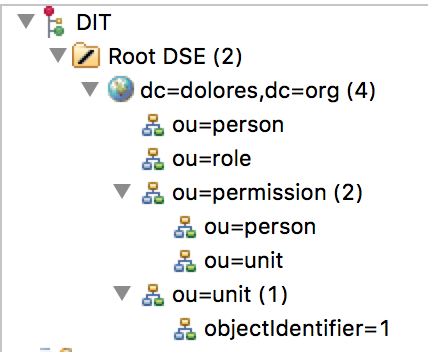
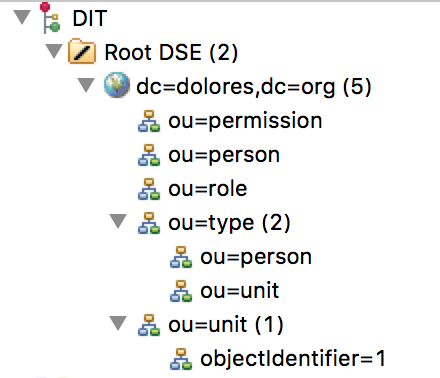
Update dolores schema file.

Changed region(s): [[0.0, 0.0, 1.0, 1.0], [0.0911, 0.9688, 0.1822, 1.0]]

diff --git a/main.go b/main.go
@@ -90,22 +90,28 @@ func main() {
 	aq.Attribute(`ou`, []string{`permission`})
 	checkError(l.Add(aq))
 
-	log.Print(`4.1 create unit permission`)
-	aq = ldap.NewAddRequest(`ou=unit,ou=permission,` + config.Subfix)
-	aq.Attribute(`objectClass`, []string{`organizationalUnit`, `top`})
-	aq.Attribute(`ou`, []string{`unitPermission`})
-	checkError(l.Add(aq))
-
-	log.Print(`4.2 create person permission`)
-	aq = ldap.NewAddRequest(`ou=person,ou=permission,` + config.Subfix)
-	aq.Attribute(`objectClass`, []string{`organizationalUnit`, `top`})
-	aq.Attribute(`ou`, []string{`personPermission`})
-	checkError(l.Add(aq))
-
 	log.Print(`5. create role`)
 	aq = ldap.NewAddRequest(`ou=role,` + config.Subfix)
 	aq.Attribute(`objectClass`, []string{`organizationalUnit`, `top`})
 	aq.Attribute(`ou`, []string{`role`})
+	checkError(l.Add(aq))
+
+	log.Print(`6. create type`)
+	aq = ldap.NewAddRequest(`ou=type,` + config.Subfix)
+	aq.Attribute(`objectClass`, []string{`organizationalUnit`, `top`})
+	aq.Attribute(`ou`, []string{`type`})
+	checkError(l.Add(aq))
+
+	log.Print(`6.1 create unit type`)
+	aq = ldap.NewAddRequest(`ou=unit,ou=type,` + config.Subfix)
+	aq.Attribute(`objectClass`, []string{`organizationalUnit`, `top`})
+	aq.Attribute(`ou`, []string{`type`})
+	checkError(l.Add(aq))
+
+	log.Print(`6.2 create person type`)
+	aq = ldap.NewAddRequest(`ou=person,ou=type,` + config.Subfix)
+	aq.Attribute(`objectClass`, []string{`organizationalUnit`, `top`})
+	aq.Attribute(`ou`, []string{`type`})
 	checkError(l.Add(aq))
 
 	log.Print(`initial done ~`)
